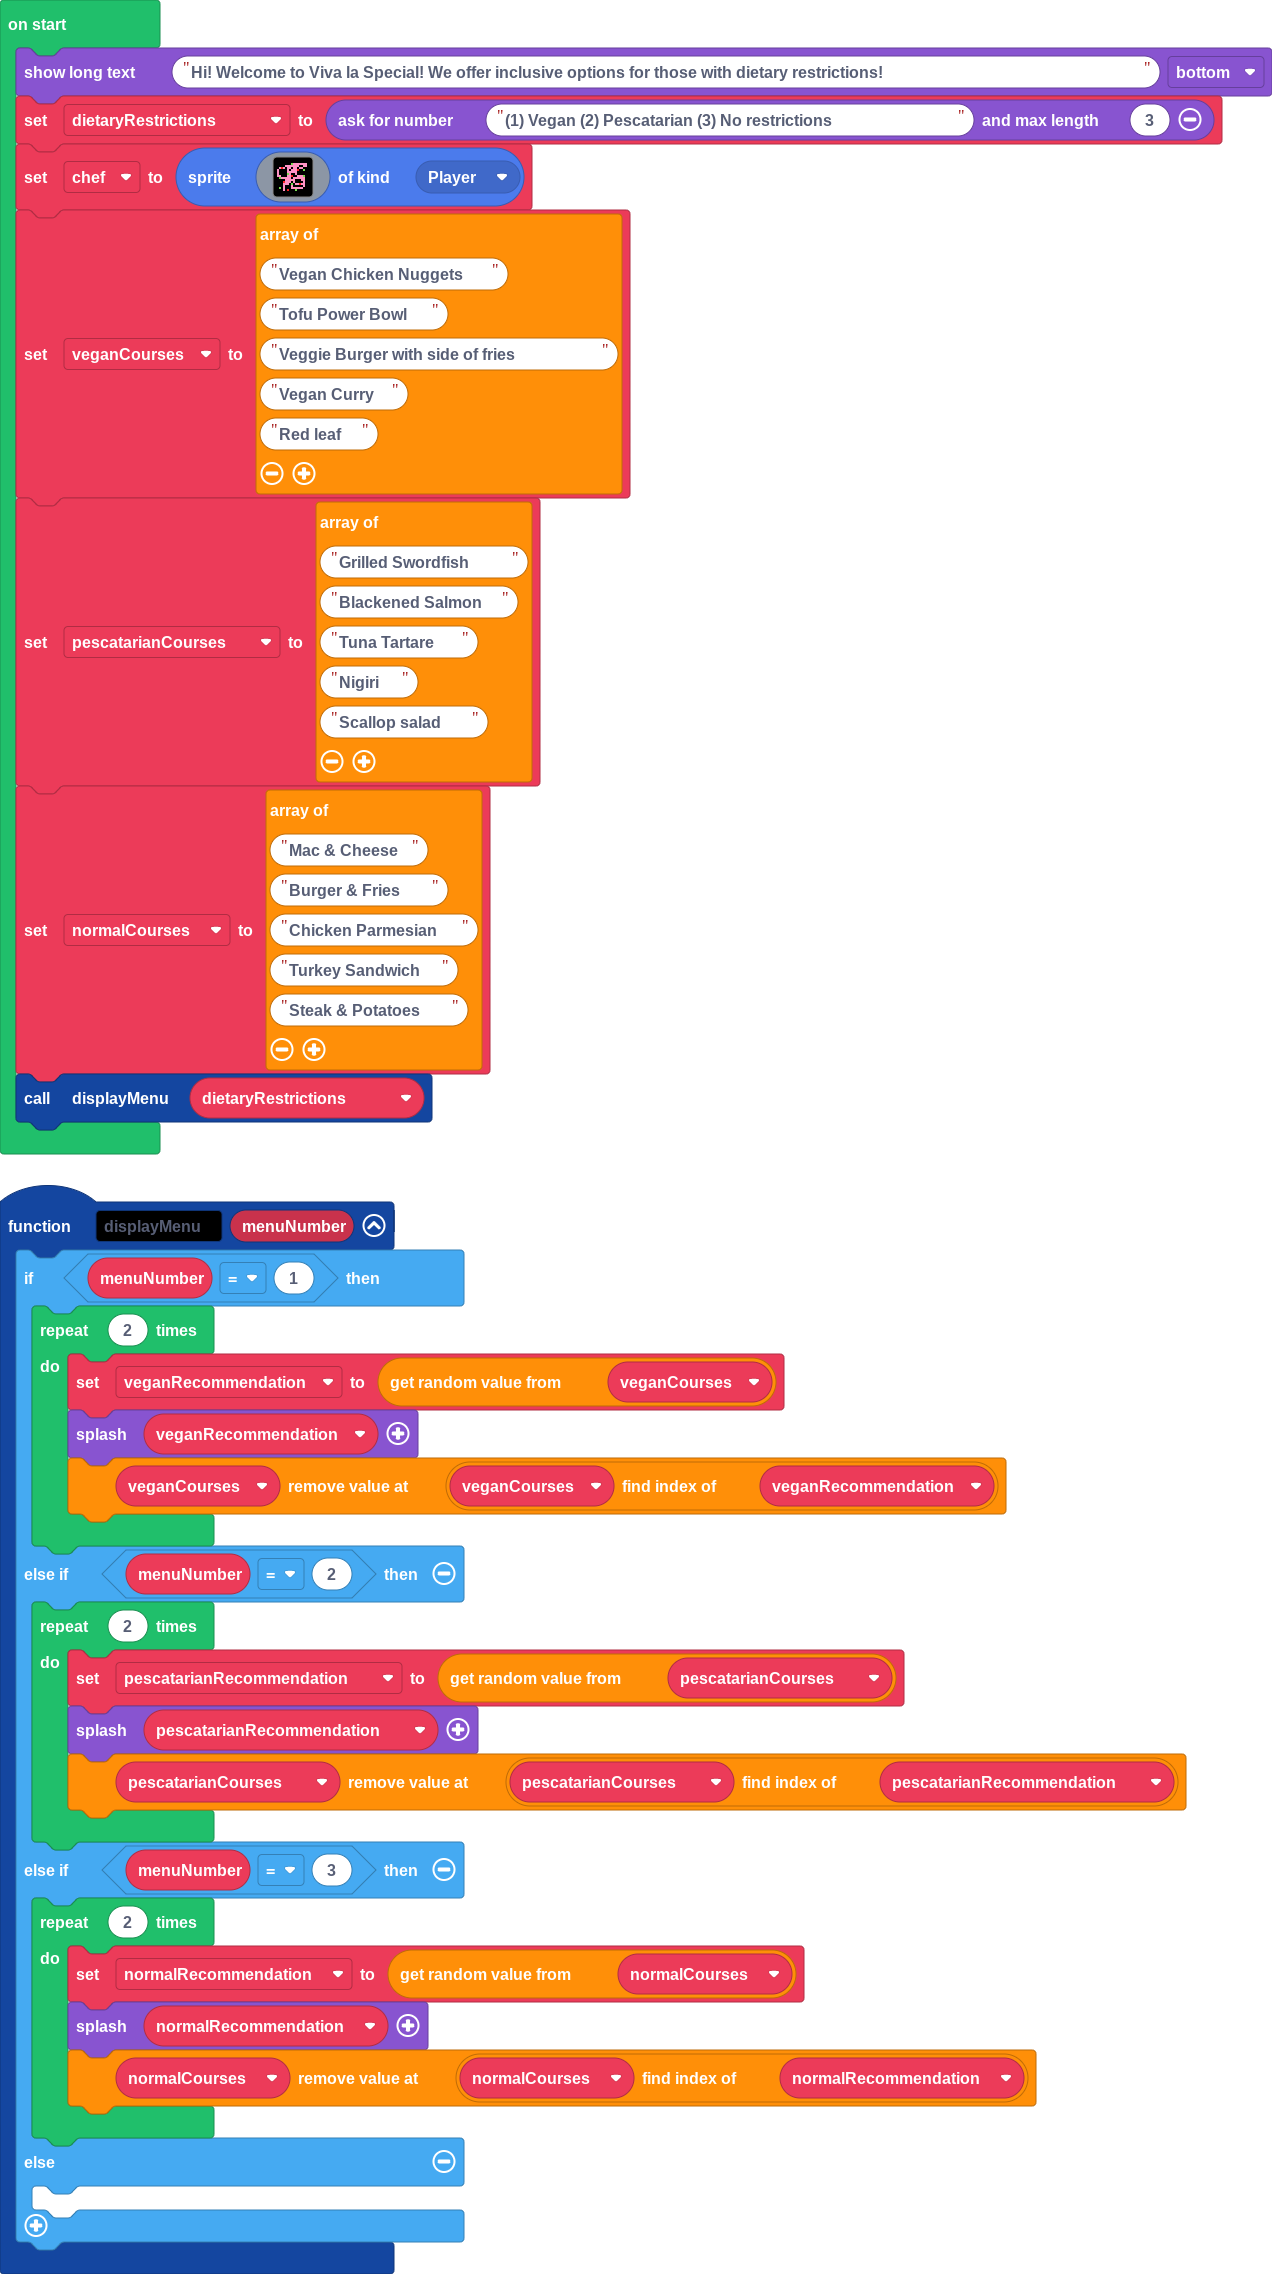
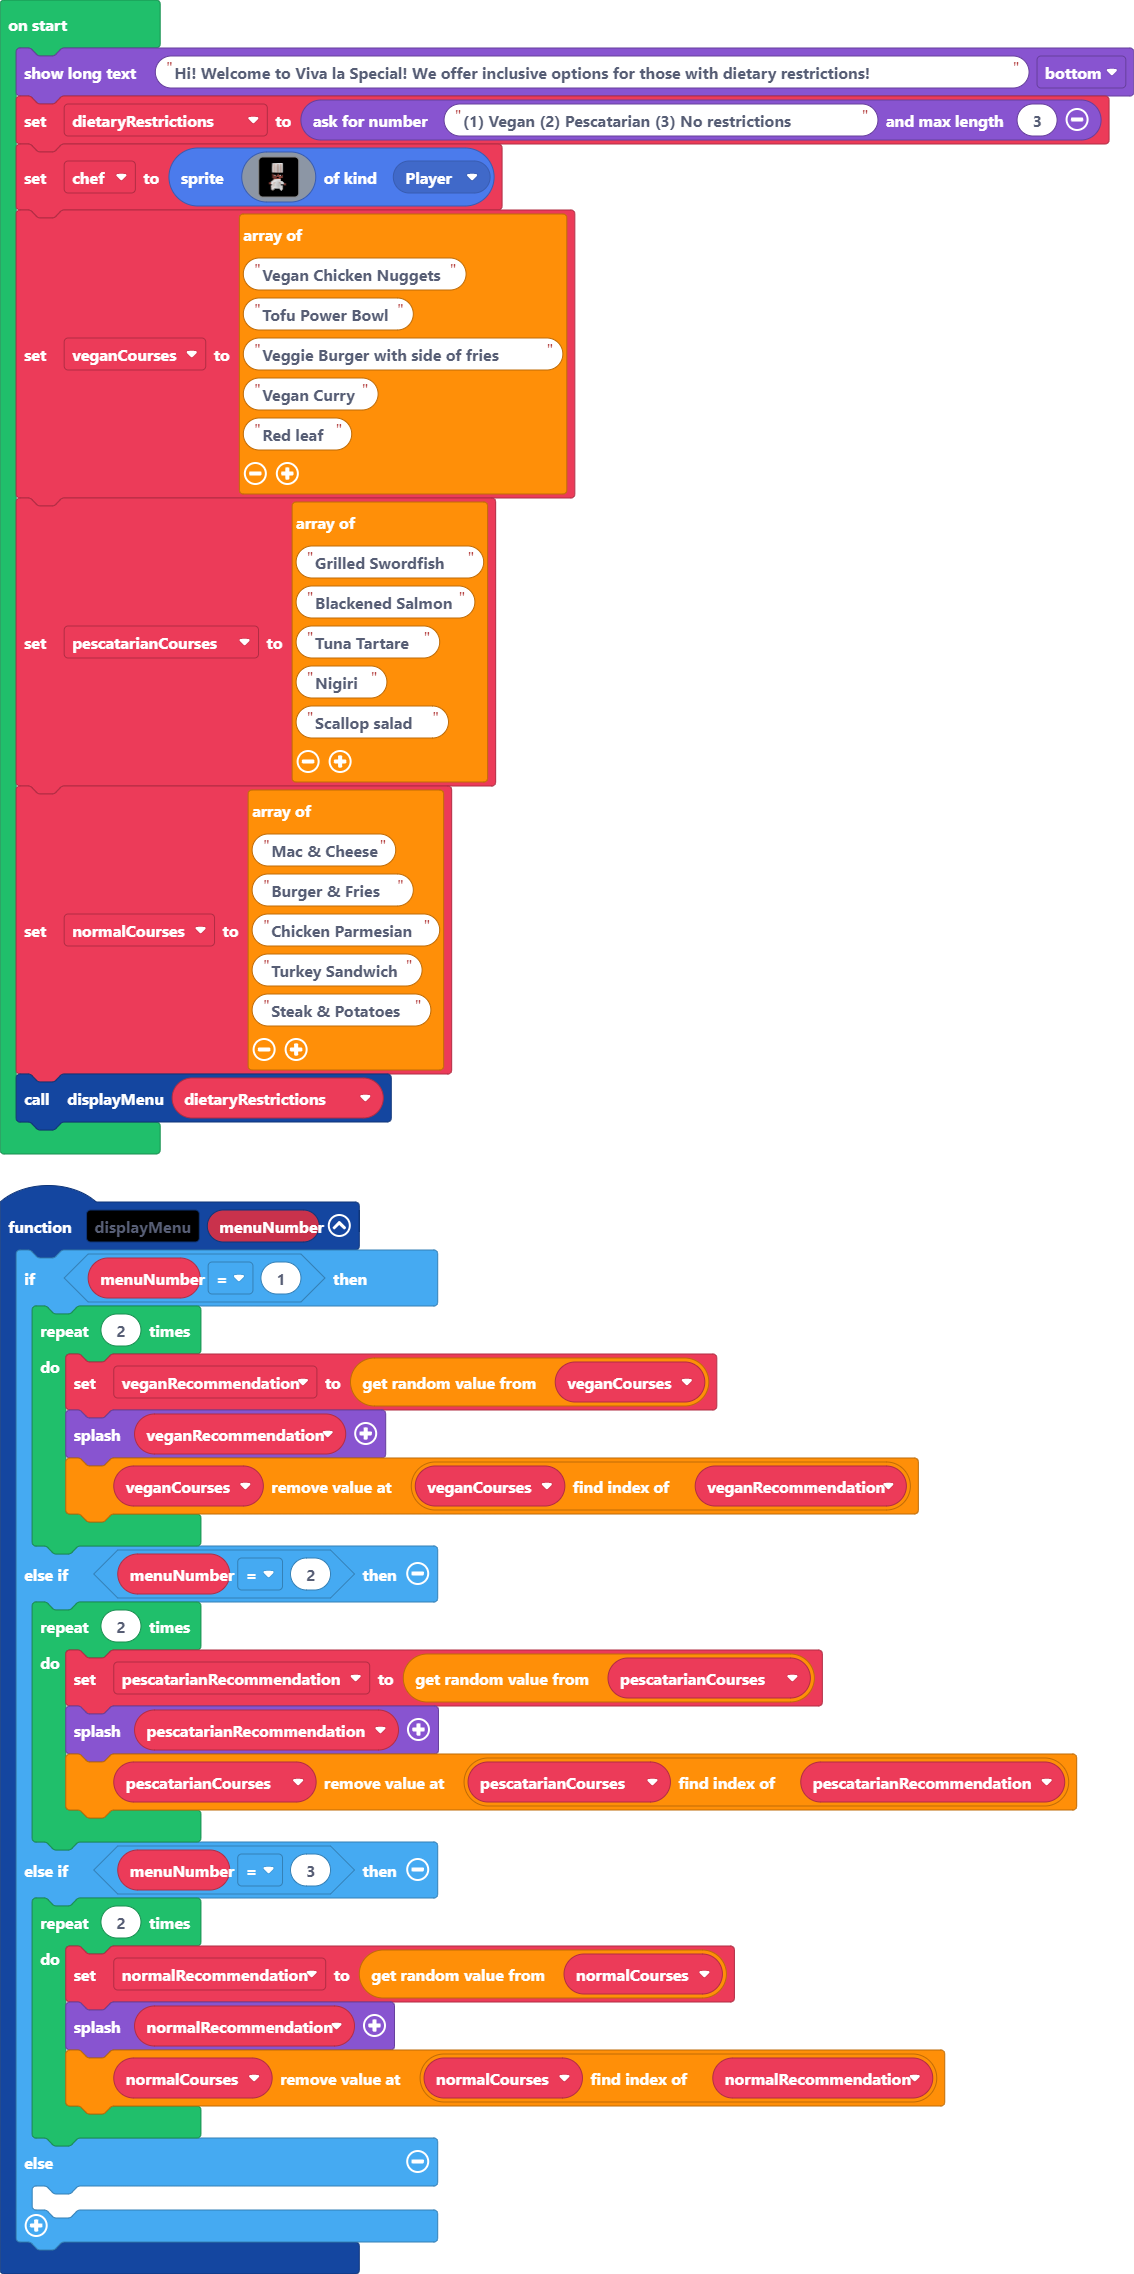
Update pxt.json, main.blocks, main.ts

diff --git a/main.ts b/main.ts
@@ -30,22 +30,36 @@ let veganCourses: string[] = []
 game.showLongText("Hi! Welcome to Viva la Special! We offer inclusive options for those with dietary restrictions!", DialogLayout.Bottom)
 let dietaryRestrictions = game.askForNumber("(1) Vegan (2) Pescatarian (3) No restrictions", 3)
 let chef = sprites.create(img`
-    . . . . . . . . . . . . . . . . 
-    . . . . . . . 7 3 3 3 3 3 3 3 . 
-    . . . . 3 3 3 3 3 3 3 . . 3 3 . 
-    . 3 2 3 . 3 3 . 3 3 . 3 3 . . . 
-    3 . . . . 3 . 3 3 3 2 . . 7 . . 
-    3 . . . . 3 3 3 3 3 . . . . . . 
-    3 . . . . 7 3 . . 3 . . . . . . 
-    3 3 . . . 3 3 2 . . 3 3 3 7 . . 
-    . 7 3 3 3 3 3 . 3 3 3 3 3 3 . . 
-    . . . . 3 3 3 3 3 . . . 3 3 . . 
-    . . . 2 3 3 3 . 3 . . . . 3 . . 
-    . . . 3 3 3 . 7 . 3 3 2 3 3 . . 
-    . . . 3 . . . 3 . . . . . 3 . . 
-    . 7 . 3 . . . 3 3 3 3 3 3 . . . 
-    . . . 3 . 2 . . . 7 . . . . . . 
-    . . . . . . . . . . . . . . . . 
+    ..............................
+    ........ffffffffffff..........
+    ........f1111111111f..........
+    ........f1dd1dd1dd1f..........
+    ........f1dd1dd1dd1f..........
+    ........f1dd1dd1dd1f..........
+    ........f1dd1dd1dd1f..........
+    ........f1dd1dd1dd1f..........
+    ........f1dd1dd1dd1f..........
+    ........f1dd1dd1dd1f..........
+    ........f1dd1dd1dd1f..........
+    ........ffffffffffff..........
+    ........feffffefffff..........
+    ........fee1feee1fef..........
+    ........feeeeeeeeeef..........
+    ........feeeeffeeeef..........
+    ........ffeeeeeeefff..........
+    .........fd111111f............
+    ........fd1111111fff..........
+    ......ff11111111111ff.........
+    .....fee11dd111dd111ff........
+    .....fee11d11111d111eef.......
+    ......fff1d111111fffeef.......
+    .......f11d11111111fff........
+    .......f1d11111111df..........
+    .......fd1111111111f..........
+    .......f111fffff11df..........
+    ........fdf.....f1f...........
+    ........fff.....fff...........
+    ..............................
     `, SpriteKind.Player)
 veganCourses = [
 "Vegan Chicken Nuggets",
